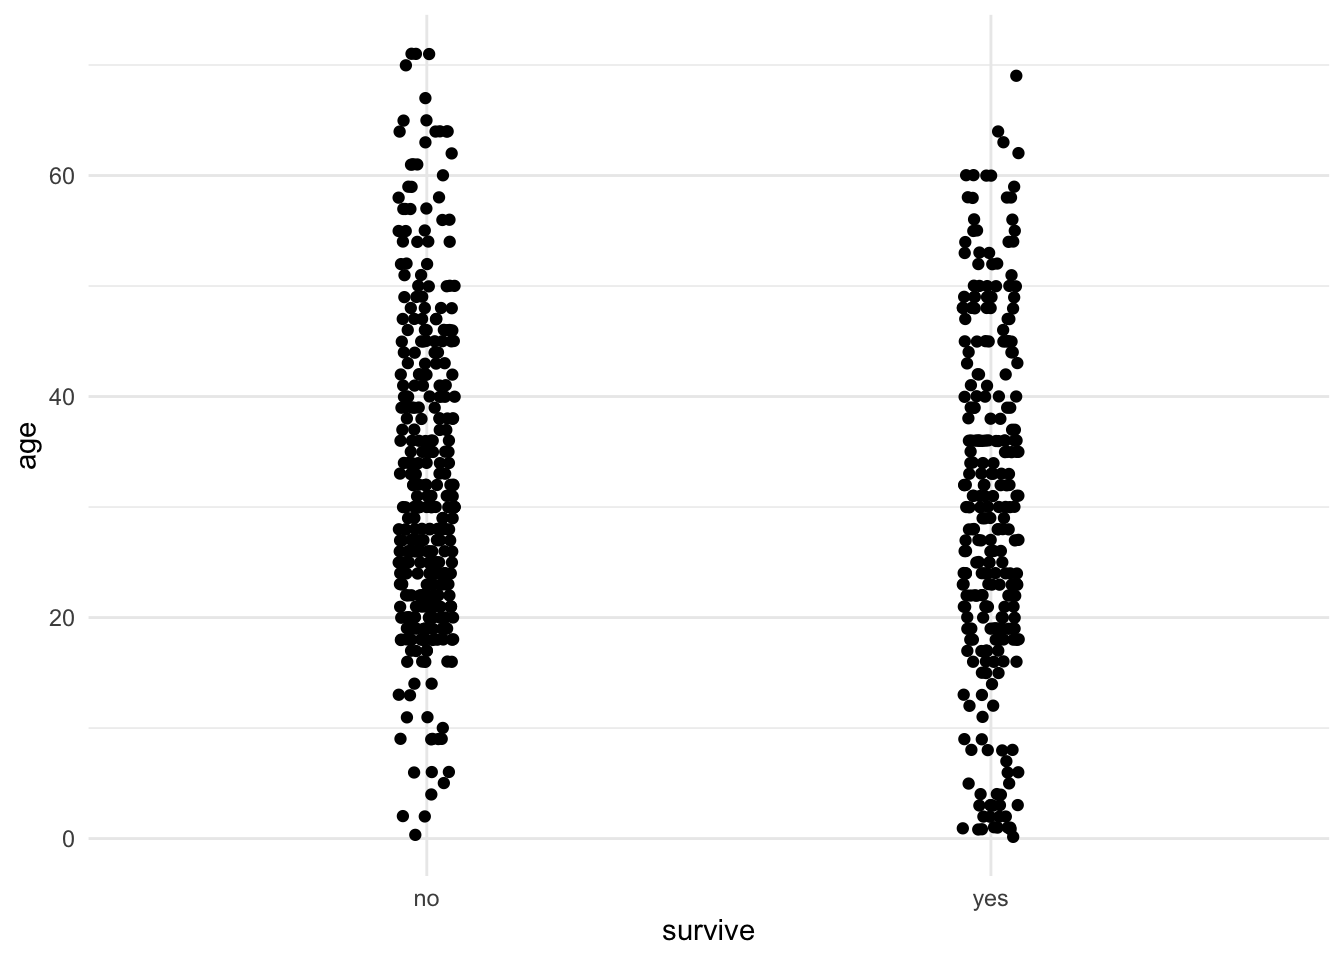
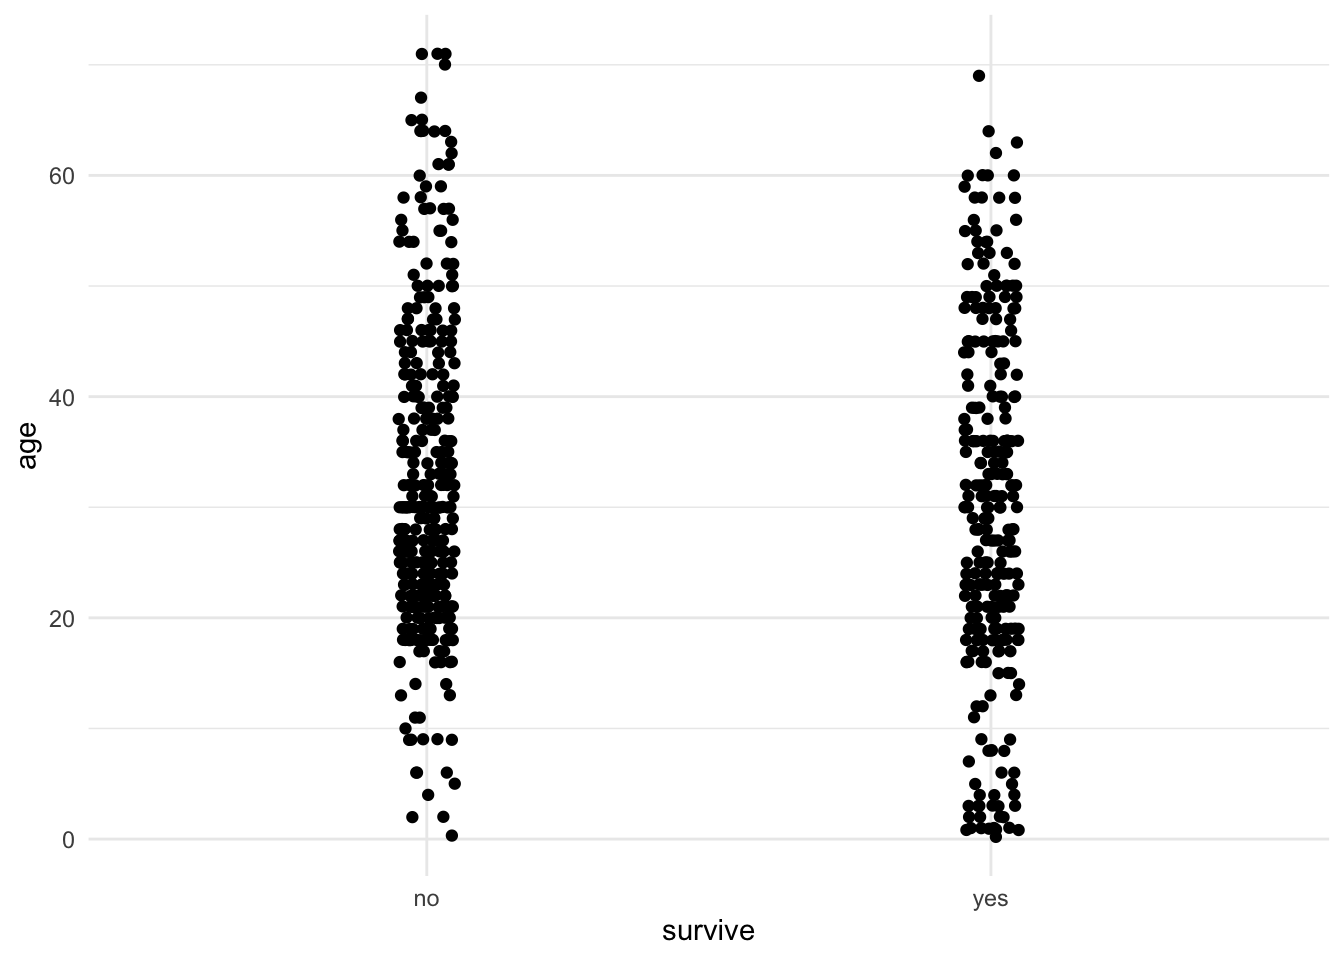
aesthetic tuning + new summary images for labs 1&2

diff --git a/RLabs/R_tutorial_Tabular_data.html b/RLabs/R_tutorial_Tabular_data.html
@@ -12,7 +12,7 @@
 <meta name="author" content="" />
 
 
-<title>Labs using R:  2. Tabular data</title>
+<title>Labs using R: UBC Edition  Lab 2. Tabular data</title>
 
 <script src="site_libs/header-attrs-2.29/header-attrs.js"></script>
 <script src="site_libs/jquery-3.6.0/jquery-3.6.0.min.js"></script>
@@ -568,8 +568,8 @@ document.addEventListener("DOMContentLoaded", function() {
 
 
 
-<h1 class="title toc-ignore"><em>Labs using R</em>: <br>2. Tabular
-data</h1>
+<h1 class="title toc-ignore">Labs using R: <em>UBC Edition</em> <br>Lab
+2. Tabular data</h1>
 <h4 class="author"></h4>
 
 </div>
@@ -754,9 +754,8 @@ and then save it again as a <code>.csv</code> file.</p>
 <hr />
 <p><br></p>
 </div>
-<div id="installing-packages-to-expand-rs-capabilities"
-class="section level2">
-<h2>Installing packages to expand R’s capabilities</h2>
+<div id="installing-packages" class="section level2">
+<h2>Installing packages</h2>
 <p>R has a lot of power in its basic form, but one of the most important
 parts about R is that it is expandable by the work of other people.
 These expansions are usually released in “packages”.</p>
@@ -884,22 +883,14 @@ the characteristics of the data, the <code>summary()</code> and
 <p>This function will list all the variables and some summary statistics
 for each variable.</p>
 <div class="sourceCode" id="cb4"><pre class="sourceCode r"><code class="sourceCode r"><span id="cb4-1"><a href="#cb4-1" tabindex="-1"></a><span class="fu">summary</span>(titanicData)</span></code></pre></div>
-<pre><code>##  passenger_class                        name           age                 embarked  
-##  1st:322         Carlsson,MrFransOlof     :   2   Min.   : 0.1667              :493  
-##  2nd:280         Connolly,MissKate        :   2   1st Qu.:21.0000   Cherbourg  :202  
-##  3rd:711         Kelly,MrJames            :   2   Median :30.0000   Queenstown : 45  
-##                  Abbing,MrAnthony         :   1   Mean   :31.1942   Southampton:573  
-##                  Abbott,MasterEugeneJoseph:   1   3rd Qu.:41.0000                    
-##                  Abbott,MrRossmoreEdward  :   1   Max.   :71.0000                    
-##                  (Other)                  :1304   NA&#39;s   :680                        
-##           home_destination     sex      survive  
-##                   :558     female:463   no :864  
-##  NewYork,NY       : 65     male  :850   yes:449  
-##  London           : 14                           
-##  Montreal,PQ      : 10                           
-##  Cornwall/Akron,OH:  9                           
-##  Paris,France     :  9                           
-##  (Other)          :648</code></pre>
+<pre><code>##  passenger_class                        name           age                 embarked            home_destination     sex      survive  
+##  1st:322         Carlsson,MrFransOlof     :   2   Min.   : 0.1667              :493                    :558     female:463   no :864  
+##  2nd:280         Connolly,MissKate        :   2   1st Qu.:21.0000   Cherbourg  :202   NewYork,NY       : 65     male  :850   yes:449  
+##  3rd:711         Kelly,MrJames            :   2   Median :30.0000   Queenstown : 45   London           : 14                           
+##                  Abbing,MrAnthony         :   1   Mean   :31.1942   Southampton:573   Montreal,PQ      : 10                           
+##                  Abbott,MasterEugeneJoseph:   1   3rd Qu.:41.0000                     Cornwall/Akron,OH:  9                           
+##                  Abbott,MrRossmoreEdward  :   1   Max.   :71.0000                     Paris,France     :  9                           
+##                  (Other)                  :1304   NA&#39;s   :680                         (Other)          :648</code></pre>
 </div>
 <div id="view" class="section level3">
 <h3><code>View()</code></h3>
@@ -908,16 +899,16 @@ spreadsheet-like format. To see the data in <code>titanicData</code>
 with <code>View()</code>, run the following command:</p>
 <div class="sourceCode" id="cb6"><pre class="sourceCode r"><code class="sourceCode r"><span id="cb6-1"><a href="#cb6-1" tabindex="-1"></a><span class="fu">View</span>(titanicData)</span></code></pre></div>
 <p><img src="formula_summaries/VIew_function_titanicData.png"
-width="600" /></p>
+width="700" /></p>
 <p>Again, note that the <code>titanicData</code> object has 7 columns
 and 1313 rows. The horizontal and vertical scroll bars will allow you to
-see more of the data than what may initially appear in the window.</p>
+see more of the data compared to what may initially appear in the
+window.</p>
 <p><br></p>
 </div>
 </div>
-<div id="introduction-to-data-frames-and-tibbles"
-class="section level2">
-<h2>Introduction to data frames and tibbles</h2>
+<div id="data-frames-and-tibbles" class="section level2">
+<h2>Data frames and tibbles</h2>
 <p>In R, a data set is often stored as a <code>data.frame</code> or a
 <code>tibble</code>. For now, you can think of these as very similar:
 both store data in rows and columns (tabular data).</p>
@@ -936,8 +927,8 @@ seven variables, so it has seven columns: <code>passenger_class</code>,
 <code>home_destination</code>, <code>sex</code>, and
 <code>survive</code>.</p>
 <p><br></p>
-<div id="columns-within-data-frames-or-tibbles" class="section level3">
-<h3>Columns within data frames or tibbles</h3>
+<div id="columns-within-data-frames" class="section level3">
+<h3>Columns within data frames</h3>
 <p>Very importantly, we can grab one column from a data frame or tibble
 by itself. We write the name of the data set, followed by a
 <code>$</code>, and then the name of the variable.</p>
@@ -960,28 +951,21 @@ name, using the <code>$</code>.</p>
 <p>You can run the command <code>head(titanicData)</code> to see that
 <code>log_age</code> is now a column in <code>titanicData</code>.</p>
 <div class="sourceCode" id="cb9"><pre class="sourceCode r"><code class="sourceCode r"><span id="cb9-1"><a href="#cb9-1" tabindex="-1"></a><span class="fu">head</span>(titanicData)</span></code></pre></div>
-<pre><code>##   passenger_class                                      name     age    embarked
-## 1             1st                 Allen,MissElisabethWalton 29.0000 Southampton
-## 2             1st                  Allison,MissHelenLoraine  2.0000 Southampton
-## 3             1st           Allison,MrHudsonJoshuaCreighton 30.0000 Southampton
-## 4             1st Allison,MrsHudsonJ.C.(BessieWaldoDaniels) 25.0000 Southampton
-## 5             1st                Allison,MasterHudsonTrevor  0.9167 Southampton
-## 6             1st                          Anderson,MrHarry 47.0000 Southampton
-##              home_destination    sex survive     log_age
-## 1                  StLouis,MO female     yes  3.36729583
-## 2 Montreal,PQ/Chesterville,ON female      no  0.69314718
-## 3 Montreal,PQ/Chesterville,ON   male      no  3.40119738
-## 4 Montreal,PQ/Chesterville,ON female      no  3.21887582
-## 5 Montreal,PQ/Chesterville,ON   male     yes -0.08697501
-## 6                  NewYork,NY   male     yes  3.85014760</code></pre>
+<pre><code>##   passenger_class                                      name     age    embarked            home_destination    sex survive     log_age
+## 1             1st                 Allen,MissElisabethWalton 29.0000 Southampton                  StLouis,MO female     yes  3.36729583
+## 2             1st                  Allison,MissHelenLoraine  2.0000 Southampton Montreal,PQ/Chesterville,ON female      no  0.69314718
+## 3             1st           Allison,MrHudsonJoshuaCreighton 30.0000 Southampton Montreal,PQ/Chesterville,ON   male      no  3.40119738
+## 4             1st Allison,MrsHudsonJ.C.(BessieWaldoDaniels) 25.0000 Southampton Montreal,PQ/Chesterville,ON female      no  3.21887582
+## 5             1st                Allison,MasterHudsonTrevor  0.9167 Southampton Montreal,PQ/Chesterville,ON   male     yes -0.08697501
+## 6             1st                          Anderson,MrHarry 47.0000 Southampton                  NewYork,NY   male     yes  3.85014760</code></pre>
 <p>The <code>head()</code> function shows the first 6 rows of a data
 frame or tibble, which is a handy way to check that you understand the
 structure of the data and/or that you have added the new column
 correctly.</p>
 <p><br></p>
 </div>
-<div id="filter" class="section level2">
-<h2><code>filter()</code></h2>
+<div id="subsetting-with-filter" class="section level2">
+<h2>Subsetting with <code>filter()</code></h2>
 <p>Sometimes we want to do an analysis only on some of the data that fit
 certain criteria. For example, we might want to analyze the data from
 the Titanic using only the information from females.</p>
@@ -1014,7 +998,7 @@ double equal sign <code>==</code>.</p>
 </div>
 <div id="r-commands-summary" class="section level1">
 <h1>R commands summary</h1>
-<p><img src="formula_summaries/Intro%20to%20R%202%20summary.png" /></p>
+<p><img src="formula_summaries/Tabular_data_summary.png" /></p>
 <hr />
 <p><br></p>
 </div>

diff --git a/RLabs/ws-rlabs.css b/RLabs/ws-rlabs.css
@@ -8,21 +8,20 @@
 }
 
 h1 {
-  font-size:32px;
+  font-size:36px;
   /*text-decoration: underline;*/
  
 }
 h2 {
-  font-size:26px;
+  font-size:32px;
+  color: #bd6133;
   /*font-weight: 400;*/
-  /*color: #002db3;*/
-  color: #b34700;
-
+  /*color: #daa520;*/
 }
 
 h3 {
-  font-size:22px;
-  
+  font-size:28px;
+  color: #2c3e50;
 }
 
 /* font weight of main headers in table of contents (300 is default) */
@@ -85,7 +84,6 @@ p {
 h1, h2, h3, h4, h5, h6 {
   font-family: "Open Sans", "Helvetica Neue", Helvetica, Arial, sans-serif;
   font-weight: 400;
-  color: #333333;
 }
 
 /* Preserve orange page title look */
@@ -99,3 +97,37 @@ a {
   font-weight: 400;
 }
 
+#TOC {
+  font-size: 13px;
+}
+
+/* Level 1 */
+#TOC .tocify-header > .tocify-item {
+  font-size: 13px;
+  padding-left: 4px;
+  font-weight: 700;
+}
+
+/* Level 2 */
+#TOC .tocify-subheader > .tocify-item {
+  font-size: 12px;
+  padding-left: 8px;
+  font-weight: 400;
+}
+
+/* Level 3 */
+#TOC .tocify-subheader .tocify-subheader > .tocify-item {
+  font-size: 11px;
+  padding-left: 16px;
+  font-weight: 400;
+}
+
+#TOC .tocify-item {
+  padding: 5px 12px;
+  line-height: 1.2;
+}
+
+#TOC .list-group-item {
+  padding-top: 5px;
+  padding-bottom: 5px;
+}

diff --git a/RLabs/R_tutorial_Intro_to_R_2.html b/RLabs/R_tutorial_Intro_to_R_2.html
@@ -792,22 +792,14 @@ value of a categorical variable.</p>
 <p>To see if the data loads appropriately, you might want to run the
 command</p>
 <div class="sourceCode" id="cb19"><pre class="sourceCode r"><code class="sourceCode r"><span id="cb19-1"><a href="#cb19-1" tabindex="-1"></a><span class="fu">summary</span>(titanicData)</span></code></pre></div>
-<pre><code>##  passenger_class                        name           age                 embarked  
-##  1st:322         Carlsson,MrFransOlof     :   2   Min.   : 0.1667              :493  
-##  2nd:280         Connolly,MissKate        :   2   1st Qu.:21.0000   Cherbourg  :202  
-##  3rd:711         Kelly,MrJames            :   2   Median :30.0000   Queenstown : 45  
-##                  Abbing,MrAnthony         :   1   Mean   :31.1942   Southampton:573  
-##                  Abbott,MasterEugeneJoseph:   1   3rd Qu.:41.0000                    
-##                  Abbott,MrRossmoreEdward  :   1   Max.   :71.0000                    
-##                  (Other)                  :1304   NA&#39;s   :680                        
-##           home_destination     sex      survive  
-##                   :558     female:463   no :864  
-##  NewYork,NY       : 65     male  :850   yes:449  
-##  London           : 14                           
-##  Montreal,PQ      : 10                           
-##  Cornwall/Akron,OH:  9                           
-##  Paris,France     :  9                           
-##  (Other)          :648</code></pre>
+<pre><code>##  passenger_class                        name           age                 embarked            home_destination     sex      survive  
+##  1st:322         Carlsson,MrFransOlof     :   2   Min.   : 0.1667              :493                    :558     female:463   no :864  
+##  2nd:280         Connolly,MissKate        :   2   1st Qu.:21.0000   Cherbourg  :202   NewYork,NY       : 65     male  :850   yes:449  
+##  3rd:711         Kelly,MrJames            :   2   Median :30.0000   Queenstown : 45   London           : 14                           
+##                  Abbing,MrAnthony         :   1   Mean   :31.1942   Southampton:573   Montreal,PQ      : 10                           
+##                  Abbott,MasterEugeneJoseph:   1   3rd Qu.:41.0000                     Cornwall/Akron,OH:  9                           
+##                  Abbott,MrRossmoreEdward  :   1   Max.   :71.0000                     Paris,France     :  9                           
+##                  (Other)                  :1304   NA&#39;s   :680                         (Other)          :648</code></pre>
 <p>which will list all the variables and some summary statistics for
 each variable.</p>
 <p>R has other functions that can read other data formats besides csv
@@ -875,20 +867,13 @@ name, using the <strong>$</strong>.</p>
 that <strong>log_age</strong> is now a column in
 <strong>titanicData</strong>.</p>
 <div class="sourceCode" id="cb24"><pre class="sourceCode r"><code class="sourceCode r"><span id="cb24-1"><a href="#cb24-1" tabindex="-1"></a><span class="fu">head</span>(titanicData)</span></code></pre></div>
-<pre><code>##   passenger_class                                      name     age    embarked
-## 1             1st                 Allen,MissElisabethWalton 29.0000 Southampton
-## 2             1st                  Allison,MissHelenLoraine  2.0000 Southampton
-## 3             1st           Allison,MrHudsonJoshuaCreighton 30.0000 Southampton
-## 4             1st Allison,MrsHudsonJ.C.(BessieWaldoDaniels) 25.0000 Southampton
-## 5             1st                Allison,MasterHudsonTrevor  0.9167 Southampton
-## 6             1st                          Anderson,MrHarry 47.0000 Southampton
-##              home_destination    sex survive     log_age
-## 1                  StLouis,MO female     yes  3.36729583
-## 2 Montreal,PQ/Chesterville,ON female      no  0.69314718
-## 3 Montreal,PQ/Chesterville,ON   male      no  3.40119738
-## 4 Montreal,PQ/Chesterville,ON female      no  3.21887582
-## 5 Montreal,PQ/Chesterville,ON   male     yes -0.08697501
-## 6                  NewYork,NY   male     yes  3.85014760</code></pre>
+<pre><code>##   passenger_class                                      name     age    embarked            home_destination    sex survive     log_age
+## 1             1st                 Allen,MissElisabethWalton 29.0000 Southampton                  StLouis,MO female     yes  3.36729583
+## 2             1st                  Allison,MissHelenLoraine  2.0000 Southampton Montreal,PQ/Chesterville,ON female      no  0.69314718
+## 3             1st           Allison,MrHudsonJoshuaCreighton 30.0000 Southampton Montreal,PQ/Chesterville,ON   male      no  3.40119738
+## 4             1st Allison,MrsHudsonJ.C.(BessieWaldoDaniels) 25.0000 Southampton Montreal,PQ/Chesterville,ON female      no  3.21887582
+## 5             1st                Allison,MasterHudsonTrevor  0.9167 Southampton Montreal,PQ/Chesterville,ON   male     yes -0.08697501
+## 6             1st                          Anderson,MrHarry 47.0000 Southampton                  NewYork,NY   male     yes  3.85014760</code></pre>
 <p><br></p>
 </div>
 <div id="choosing-subsets-of-data" class="section level2">

diff --git a/RLabs/R_tutorial_Frequency_data.html b/RLabs/R_tutorial_Frequency_data.html
@@ -813,9 +813,9 @@ possibility from 0 to 20 like this:</p>
 <div class="sourceCode" id="cb25"><pre class="sourceCode r"><code class="sourceCode r"><span id="cb25-1"><a href="#cb25-1" tabindex="-1"></a>expected_probability <span class="ot">&lt;-</span> <span class="fu">dpois</span>(<span class="at">x =</span> <span class="dv">0</span><span class="sc">:</span><span class="dv">20</span>, <span class="at">lambda =</span> <span class="fl">4.21</span>)</span>
 <span id="cb25-2"><a href="#cb25-2" tabindex="-1"></a></span>
 <span id="cb25-3"><a href="#cb25-3" tabindex="-1"></a>expected_probability</span></code></pre></div>
-<pre><code>##  [1] 1.484637e-02 6.250321e-02 1.315693e-01 1.846355e-01 1.943289e-01 1.636249e-01 1.148102e-01
-##  [8] 6.905011e-02 3.633762e-02 1.699793e-02 7.156129e-03 2.738846e-03 9.608784e-04 3.111768e-04
-## [15] 9.357530e-05 2.626347e-05 6.910575e-06 1.711384e-06 4.002736e-07 8.869220e-08 1.866971e-08</code></pre>
+<pre><code>##  [1] 1.484637e-02 6.250321e-02 1.315693e-01 1.846355e-01 1.943289e-01 1.636249e-01 1.148102e-01 6.905011e-02 3.633762e-02 1.699793e-02
+## [11] 7.156129e-03 2.738846e-03 9.608784e-04 3.111768e-04 9.357530e-05 2.626347e-05 6.910575e-06 1.711384e-06 4.002736e-07 8.869220e-08
+## [21] 1.866971e-08</code></pre>
 <p>The odd notation here is a shorthand for scientific notation.
 1.48e-02 means 1.48 x 10<sup>-2</sup>. The e stands for exponent.</p>
 <p>Remember that we asked R to output the probability of values from 0
@@ -826,9 +826,9 @@ etc.</p>
 <span class="math inline">\(\chi\)</span><sup>2</sup> test, we need to
 multiply them by the total sample size.</p>
 <div class="sourceCode" id="cb27"><pre class="sourceCode r"><code class="sourceCode r"><span id="cb27-1"><a href="#cb27-1" tabindex="-1"></a><span class="fu">length</span>(number_of_extinctions) <span class="sc">*</span> expected_probability</span></code></pre></div>
-<pre><code>##  [1] 1.128324e+00 4.750244e+00 9.999264e+00 1.403230e+01 1.476900e+01 1.243549e+01 8.725572e+00
-##  [8] 5.247808e+00 2.761659e+00 1.291843e+00 5.438658e-01 2.081523e-01 7.302676e-02 2.364943e-02
-## [15] 7.111723e-03 1.996023e-03 5.252037e-04 1.300651e-04 3.042079e-05 6.740607e-06 1.418898e-06</code></pre>
+<pre><code>##  [1] 1.128324e+00 4.750244e+00 9.999264e+00 1.403230e+01 1.476900e+01 1.243549e+01 8.725572e+00 5.247808e+00 2.761659e+00 1.291843e+00
+## [11] 5.438658e-01 2.081523e-01 7.302676e-02 2.364943e-02 7.111723e-03 1.996023e-03 5.252037e-04 1.300651e-04 3.042079e-05 6.740607e-06
+## [21] 1.418898e-06</code></pre>
 <p>Most of these values would cause problems for the <span
 class="math inline">\(\chi\)</span><sup>2</sup> test because they are
 too small (less than 1). We need to combine categories in some
@@ -914,8 +914,7 @@ don’t yet want the full results of the test because R does not know to
 correct for the reduction in degrees of freedom caused by estimating the
 mean.)</p>
 <div class="sourceCode" id="cb30"><pre class="sourceCode r"><code class="sourceCode r"><span id="cb30-1"><a href="#cb30-1" tabindex="-1"></a><span class="fu">chisq.test</span>(observed_combined, <span class="at">p =</span> expected_combined, <span class="at">rescale.p =</span> <span class="cn">TRUE</span>)<span class="sc">$</span>statistic</span></code></pre></div>
-<pre><code>## Warning in chisq.test(observed_combined, p = expected_combined, rescale.p = TRUE): Chi-squared
-## approximation may be incorrect</code></pre>
+<pre><code>## Warning in chisq.test(observed_combined, p = expected_combined, rescale.p = TRUE): Chi-squared approximation may be incorrect</code></pre>
 <pre><code>## X-squared 
 ##  23.93919</code></pre>
 <p>This correctly calculates our <span

diff --git a/RLabs/R_tutorial_Intro_to_R.html b/RLabs/R_tutorial_Intro_to_R.html
@@ -12,7 +12,7 @@
 <meta name="author" content="" />
 
 
-<title>Labs using R:  1. Introduction to R</title>
+<title>Labs using R: UBC Edition  Lab 1. Introduction to R</title>
 
 <script src="site_libs/header-attrs-2.29/header-attrs.js"></script>
 <script src="site_libs/jquery-3.6.0/jquery-3.6.0.min.js"></script>
@@ -568,8 +568,8 @@ document.addEventListener("DOMContentLoaded", function() {
 
 
 
-<h1 class="title toc-ignore"><em>Labs using R</em>: <br>1. Introduction
-to R</h1>
+<h1 class="title toc-ignore">Labs using R: <em>UBC Edition</em> <br>Lab
+1. Introduction to R</h1>
 <h4 class="author"></h4>
 
 </div>
@@ -912,10 +912,7 @@ make up the vector <code>temperatureC</code>.</p>
 </div>
 <div id="r-commands-summary" class="section level1">
 <h1>R commands summary</h1>
-</div>
-<div id="needs-edit" class="section level1">
-<h1><span style="color:#ff5e00;">NEEDS EDIT</span></h1>
-<p><img src="formula_summaries/Intro%20to%20R%201%20summary.png" /></p>
+<p><img src="formula_summaries/Intro_to_R_summary.png" /></p>
 <hr />
 <p><br></p>
 </div>

diff --git a/RLabs/R_tutorial_Normal_and_sample_means.html b/RLabs/R_tutorial_Normal_and_sample_means.html
@@ -684,8 +684,8 @@ distribution</p>
 numbers drawn from a normal distribution with mean 13 and standard
 deviation 4:</p>
 <div class="sourceCode" id="cb6"><pre class="sourceCode r"><code class="sourceCode r"><span id="cb6-1"><a href="#cb6-1" tabindex="-1"></a><span class="fu">rnorm</span>(<span class="at">n =</span> <span class="dv">20</span>, <span class="at">mean =</span> <span class="dv">13</span>, <span class="at">sd =</span> <span class="dv">4</span>)</span></code></pre></div>
-<pre><code>##  [1] 17.79728 19.84355 12.36191 19.19821 20.88968 15.08544 13.81633 17.83883 16.26489 16.25355
-## [11] 15.28412 18.23761 15.25010 19.40747 11.96828 10.89408 11.60176 13.01606 10.62093 12.35749</code></pre>
+<pre><code>##  [1] 13.897231 18.305295 14.975138 14.330136 10.208391 14.667109 17.330759  9.882863 15.311841 14.000125  8.806168 14.645748 14.470310
+## [14] 15.913263 12.802077 17.561380 19.885430 17.247968 20.237016 17.603697</code></pre>
 <p>Let’s look at a QQ plot generated from 100 numbers randomly drawn
 from a normal distribution:</p>
 <div class="sourceCode" id="cb8"><pre class="sourceCode r"><code class="sourceCode r"><span id="cb8-1"><a href="#cb8-1" tabindex="-1"></a>normal_vector <span class="ot">&lt;-</span> <span class="fu">rnorm</span>(<span class="at">n =</span> <span class="dv">100</span>, <span class="at">mean =</span> <span class="dv">13</span>, <span class="at">sd =</span> <span class="dv">4</span>)</span>

diff --git a/RLabs/R_tutorial_Sampling.html b/RLabs/R_tutorial_Sampling.html
@@ -674,7 +674,7 @@ randomly chooses integers from a given range. To randomly sample 5
 individuals from 25 possibilities, we can use:</li>
 </ol>
 <div class="sourceCode" id="cb1"><pre class="sourceCode r"><code class="sourceCode r"><span id="cb1-1"><a href="#cb1-1" tabindex="-1"></a><span class="fu">sample.int</span>(<span class="at">n =</span> <span class="dv">25</span>, <span class="at">size =</span> <span class="dv">5</span>)</span></code></pre></div>
-<pre><code>## [1]  3 16 22 23 12</code></pre>
+<pre><code>## [1] 18 14  1  8 23</code></pre>
 <p>This tells R to give us a set of 5 numbers randomly chosen from the
 integers 1 to 25. (When you run this line you will almost certainly get
 a different output. It is randomly choosing numbers, so we expect